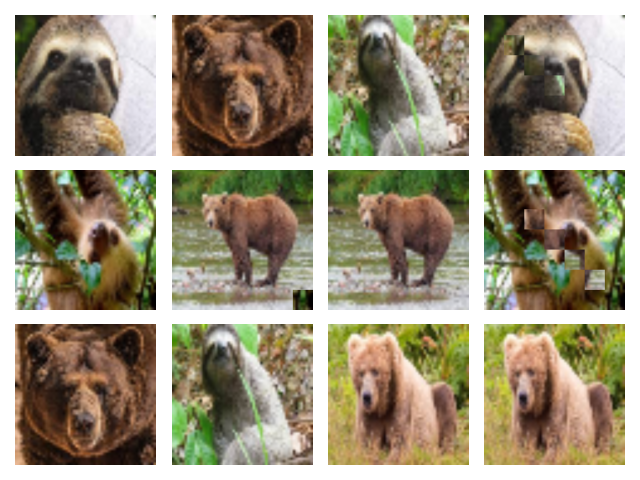
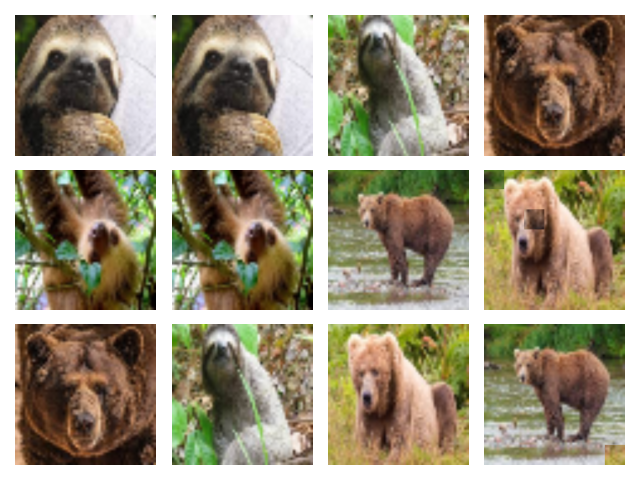
fix attn_cutmix labels

Changed region(s): [[0.75, 0.0312, 1.0, 0.9688], [0.25, 0.0312, 0.5, 0.6562]]

diff --git a/image_augzoo/image_augzoo/attentive_cutmix.py b/image_augzoo/image_augzoo/attentive_cutmix.py
@@ -29,7 +29,7 @@ class AttentiveCutMix(MultiTransform):
         grid_size: Tuple[int, int] = (32, 32),
         top_k: int = 6,
         p: float = 1.0,
-        soft_label: bool = False,
+        soft_label: bool = True,
     ) -> None:
         """
         Parameters
@@ -59,19 +59,24 @@ class AttentiveCutMix(MultiTransform):
         last_feature_map = self.model(inputs)[:, -1, :, :]
         return last_feature_map
 
-    def _get_top_k_region(self, inputs: torch.Tensor) -> Tuple[torch.Tensor, int]:
+    def _get_top_k_region(
+        self, inputs: torch.Tensor
+    ) -> Tuple[torch.Tensor, torch.Tensor]:
         bs = inputs.size(0)
         values, indices = inputs.view(bs, -1).topk(k=self.top_k, dim=-1)
         region = torch.zeros((bs, 3, *self.image_size))
         i = 0
+        k_sizes = []
         for i, indice in enumerate(indices):
+            k_sizes.append(len(indice))
             for idx in indice:
                 region[i][
                     ...,
                     idx * self.grid_size[0] : (idx + 1) * self.grid_size[0],
                     idx * self.grid_size[1] : (idx + 1) * self.grid_size[1],
                 ] = 1
-        return region, i + 1
+        top_k = torch.tensor(k_sizes, dtype=torch.long, device=inputs.device)
+        return region, top_k
 
     def apply(
         self, *inputs: torch.Tensor, **kwargs
@@ -92,6 +97,7 @@ class AttentiveCutMix(MultiTransform):
         features_map = self._get_feature_map(inputs[0].unsqueeze(dim=0))
         region, replaced = self._get_top_k_region(features_map)
         region = region[0]
+        replaced = replaced[0]
 
         labels = kwargs.get("labels")
         if self.soft_label and labels is not None:
@@ -138,13 +144,16 @@ class AttentiveCutMix(MultiTransform):
             )
         )
         region, replaced = self._get_top_k_region(features_map)
+        replaced = replaced.view(bs, 1)
 
         labels = kwargs.get("labels")
         if self.soft_label and labels is not None:
             labels = labels.float() * (replaced / self.total) + labels[perm].float() * (
                 (self.total - replaced) / self.total
             )
-            kwargs["labels"] = labels
+            kwargs["labels"] = labels.where(
+                (probs < self.p).view(-1, 1), kwargs["labels"].float()
+            )
 
         return (
             tuple(

diff --git a/tests/test_attentive_cutmix.py b/tests/test_attentive_cutmix.py
@@ -13,7 +13,8 @@ def test_attentive_cutmix_single():
     attentive_cutmix = AttentiveCutMix()
     image = load_image("assets/image01.jpg", (224, 224)) / 255.0
     ref = load_image("assets/image06.jpg", (224, 224)) / 255.0
-    processed, _ = attentive_cutmix(image, ref)
+    labels = torch.tensor([[1, 0], [0, 1]], dtype=torch.long)
+    processed, kwargs = attentive_cutmix(image, ref, labels=labels)
     assert isinstance(processed, tuple)
     assert len(processed) == 1
     assert isinstance(processed[0], torch.Tensor)
@@ -59,8 +60,11 @@ def test_attentive_cutmix_batch():
         for i in range(1, 7)
     ]
     images = torch.stack(images)
+    labels = torch.nn.functional.one_hot(
+        torch.tensor([i for i in range(6)], dtype=torch.long)
+    )
 
-    processed, _ = attentive_cutmix(images)
+    processed, kwargs = attentive_cutmix(images, labels=labels)
     assert isinstance(processed, tuple)
     assert len(processed) == 1
     assert isinstance(processed[0], torch.Tensor)
